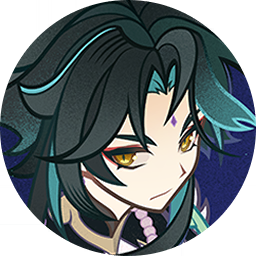
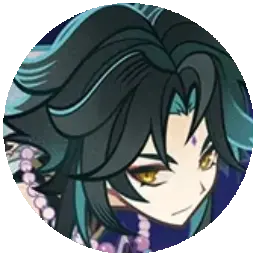
ty sigma

diff --git a/src/db.js b/src/db.js
@@ -39,6 +39,18 @@ import Tighnari_Icon from './images/Tighnari_Icon.png'
 import Itto_Icon from './images/Itto_Icon.png'
 import Ayato_Icon from './images/Ayato_Icon.png'
 import Amber_Icon from './images/Amber_Icon.png'
+import Shenhe_Icon from './images/Shenhe_Icon.png'
+import Childe_Icon from './images/Childe_Icon.png'
+import Hutao_Icon from './images/Hutao_Icon.png'
+import Raiden_Icon from './images/Raiden_Icon.png'
+import Yae_Icon from './images/Yae_Icon.png'
+import Venti_Icon from './images/Venti_Icon.png'
+import Xiao_Icon from './images/Xiao_Icon.png'
+import Zhongli_Icon from './images/Zhongli_Icon.png'
+import Nahida_Icon from './images/Nahida_Icon.png'
+import Cryocicin_Icon from './images/Cryocicin_Icon.png'
+import Electrohypostasis_Icon from './images/ElectroHypostasis_Icon.png'
+import Abysslector_Icon from './images/Abyssherald_Icon.png'
 
 import Nullchar_Icon from './images/Nullchar_Icon.png'
 
@@ -3149,7 +3161,7 @@ var db = {
             'hi_res_image': 'https://genshin.honeyhunterworld.com/img/i_n330048_gcg_high_resolution.webp',
             'card': 'https://genshin.honeyhunterworld.com/img/i_n330048.webp',
             'card_selected': 'https://genshin.honeyhunterworld.com/img/i_n334048.webp',
-            'icon': Ayaka_Icon,
+            'icon': Shenhe_Icon,
             'element': 'cryo',
             'region': 'liyue',
             'related': 'Icy Quill, Talisman Spirit',
@@ -3248,7 +3260,7 @@ var db = {
             'card': 'https://genshin.honeyhunterworld.com/img/i_n330029.webp',
             'card_selected': 'https://genshin.honeyhunterworld.com/img/i_n334036.webp',
             'related': 'Melee Stance, Ranged Stance, Riptide',
-            'icon': Ayato_Icon,
+            'icon': Childe_Icon,
             'element': 'hydro',
             'region': 'fatui',
             'flavor': '',
@@ -3359,7 +3371,7 @@ var db = {
             'hi_res_image': 'https://genshin.honeyhunterworld.com/img/i_n330033_gcg_high_resolution.webp',
             'card': 'https://genshin.honeyhunterworld.com/img/i_n330033.webp',
             'card_selected': 'https://genshin.honeyhunterworld.com/img/i_n334037.webp',
-            'icon': Xiangling_Icon,
+            'icon': Hutao_Icon,
             'element': 'pyro',
             'region': "liyue",
             'related': 'Paramita Papilio, Blood Blossom',
@@ -3474,7 +3486,7 @@ var db = {
             'hi_res_image': 'https://genshin.honeyhunterworld.com/img/i_n330036_gcg_high_resolution.webp',
             'card': 'https://genshin.honeyhunterworld.com/img/i_n330036.webp',
             'card_selected': "https://genshin.honeyhunterworld.com/img/i_n334038.webp",
-            'icon': Sara_Icon,
+            'icon': Raiden_Icon,
             'element': 'electro',
             'region': 'inazuma',
             'related': "Eye of Stormy Judgement, Chakra Desiderata",
@@ -3490,7 +3502,7 @@ var db = {
             'hi_res_image': 'https://genshin.honeyhunterworld.com/img/i_n330037_gcg_high_resolution.webp',
             'card': 'https://genshin.honeyhunterworld.com/img/i_n330037.webp',
             'card_selected': "https://genshin.honeyhunterworld.com/img/i_n334039.webp",
-            'icon': Sara_Icon,
+            'icon': Yae_Icon,
             'element': 'electro',
             'region': 'inazuma',
             'related': 'Sesshou Sakura, Tenko Thunderbolts',
@@ -3538,7 +3550,7 @@ var db = {
             'hi_res_image': 'https://genshin.honeyhunterworld.com/img/i_n330038_gcg_high_resolution.webp',
             'card': 'https://genshin.honeyhunterworld.com/img/i_n330038.webp',
             'card_selected': 'https://genshin.honeyhunterworld.com/img/i_n334040.webp',
-            'icon': Jean_Icon,
+            'icon': Venti_Icon,
             'element': 'anemo',
             'region': 'mond',
             'related': 'Stormzone, Stormeye',
@@ -3554,7 +3566,7 @@ var db = {
             'hi_res_image': 'https://genshin.honeyhunterworld.com/img/i_n330039_gcg_high_resolution.webp',
             'card': 'https://genshin.honeyhunterworld.com/img/i_n330039.webp',
             'card_selected': 'https://genshin.honeyhunterworld.com/img/i_n334041.webp',
-            'icon': Jean_Icon,
+            'icon': Xiao_Icon,
             'element': 'anemo',
             'region': 'liyue',
             'related': "Yaksha's Mask",
@@ -3618,7 +3630,7 @@ var db = {
             'hi_res_image': 'https://genshin.honeyhunterworld.com/img/i_n330040_gcg_high_resolution.webp',
             'card': 'https://genshin.honeyhunterworld.com/img/i_n330040.webp',
             'card_selected': 'https://genshin.honeyhunterworld.com/img/i_n334042.webp',
-            'icon': Ningguang_Icon,
+            'icon': Zhongli_Icon,
             'element': 'geo',
             'region': 'liyue',
             'related': 'Stone Stele, Jade Shield, Petrification',
@@ -3667,7 +3679,7 @@ var db = {
             'hi_res_image': 'https://genshin.honeyhunterworld.com/img/i_n330044_gcg_high_resolution.webp',
             'card': 'https://genshin.honeyhunterworld.com/img/i_n330044.webp',
             'card_selected': 'https://genshin.honeyhunterworld.com/img/i_n334044.webp',
-            'icon': Terrorshroom_Icon,
+            'icon': Nahida_Icon,
             'element': 'dendro',
             'region': 'sumeru',
             'related': 'Seed of Skandha, Shrine of Maya',
@@ -3683,7 +3695,7 @@ var db = {
             'hi_res_image': 'https://genshin.honeyhunterworld.com/img/i_n330045_gcg_high_resolution.webp',
             'card': 'https://genshin.honeyhunterworld.com/img/i_n330045.webp',
             'card_selected': 'https://genshin.honeyhunterworld.com/img/i_n334045.webp',
-            'icon': Ganyu_Icon,
+            'icon': Cryocicin_Icon,
             'element': 'cryo',
             'region': 'fatui',
             'related': 'Cryo Cicin, Flowing Cicin Shield',
@@ -3735,7 +3747,7 @@ var db = {
             'hi_res_image': 'https://genshin.honeyhunterworld.com/img/i_n330047_gcg_high_resolution.webp',
             'card': 'https://genshin.honeyhunterworld.com/img/i_n330047.webp',
             'card_selected': 'https://genshin.honeyhunterworld.com/img/i_n334047.webp',
-            'icon': Keqing_Icon,
+            'icon': Electrohypostasis_Icon,
             'element': 'electro',
             'region': 'monster',
             'related': 'Electro Crystal Core, Chains of Warding Thunder',
@@ -3769,7 +3781,7 @@ var db = {
             'hi_res_image': 'https://genshin.honeyhunterworld.com/img/i_n330046_gcg_high_resolution.webp',
             'card': 'https://genshin.honeyhunterworld.com/img/i_n330046.webp',
             'card_selected': 'https://genshin.honeyhunterworld.com/img/i_n334046.webp',
-            'icon': Pyroagent_Icon,
+            'icon': Abysslector_Icon,
             'element': 'pyro',
             'region': 'monster',
             'related': 'Fiery Rebirth, Darkfire Furnace',
